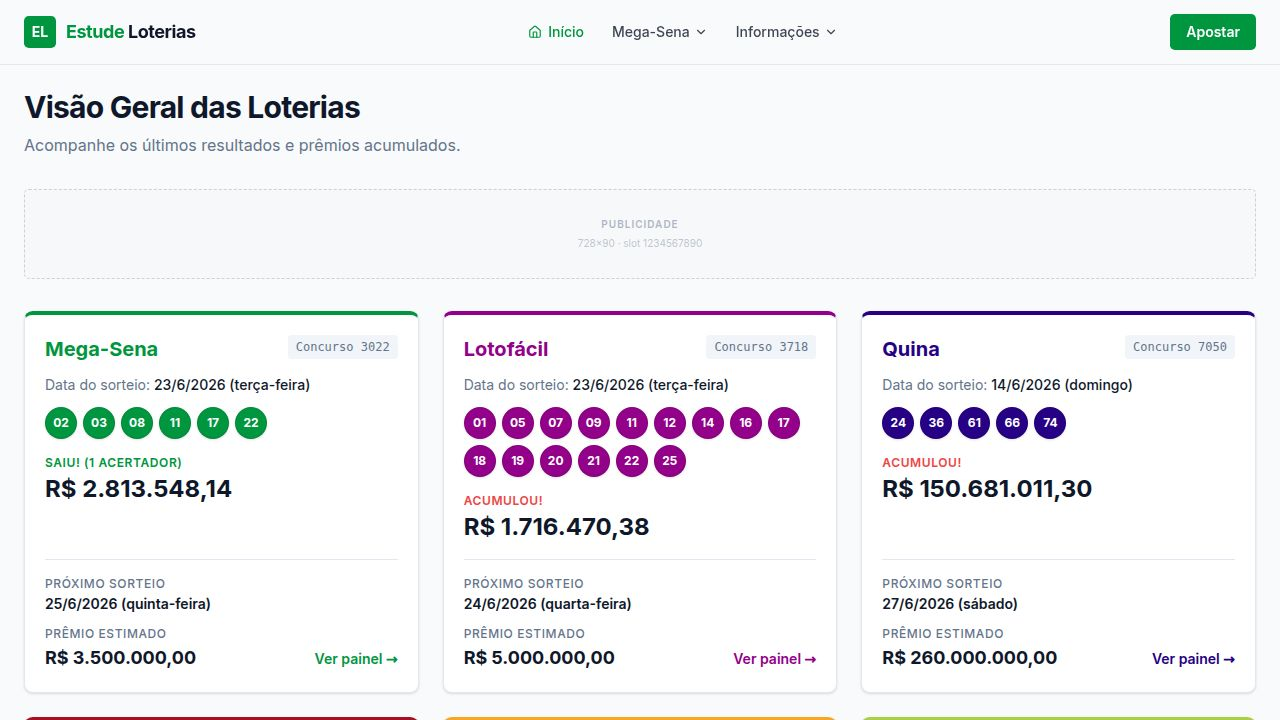
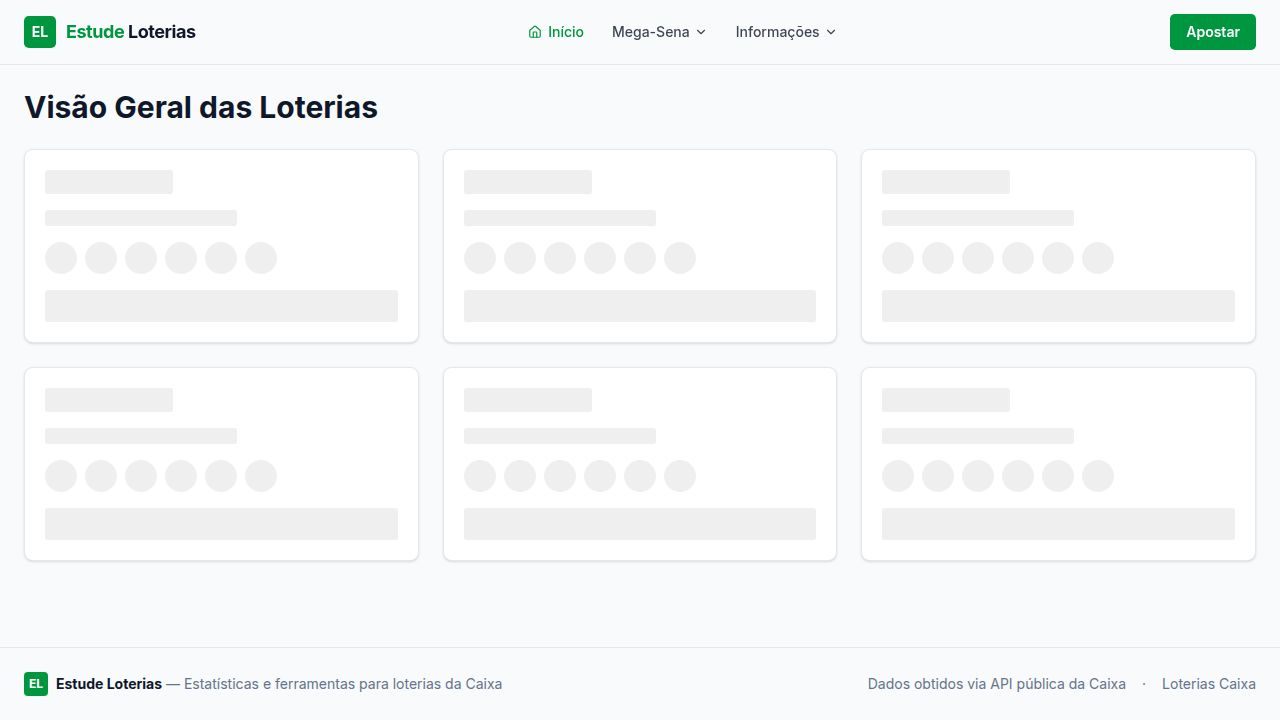
Show total main prize amount instead of per-winner prize amount
Update the results page to calculate and display the total main prize pool by multiplying the per-winner prize amount by the number of winners.

Replit-Commit-Author: Agent
Replit-Commit-Session-Id: 3f9aee6d-3915-46e7-801f-9ab8f65ebde6
Replit-Commit-Checkpoint-Type: full_checkpoint
Replit-Commit-Event-Id: afdb4cd8-641d-4330-9f33-70037f6c7eb4
Replit-Commit-Screenshot-Url: https://storage.googleapis.com/screenshot-production-us-central1/8f00ce61-9af4-4bfb-b417-0e7ddd25a51e/3f9aee6d-3915-46e7-801f-9ab8f65ebde6/rIZMCJy
Replit-Helium-Checkpoint-Created: true

diff --git a/artifacts/estude-loterias/src/pages/mega-sena/resultados.tsx b/artifacts/estude-loterias/src/pages/mega-sena/resultados.tsx
@@ -109,10 +109,12 @@ export default function MegaSenaResultadosAnteriores() {
                         )}
                       </TableCell>
                       <TableCell className="text-right font-medium">
-                        {res.acumulado
-                          ? formatCurrency(res.valorAcumulado)
-                          : formatCurrency(res.premios.find(p => p.faixa === 1)?.valorPremio)
-                        }
+                        {(() => {
+                          if (res.acumulado) return formatCurrency(res.valorAcumulado);
+                          const p1 = res.premios.find(p => p.faixa === 1);
+                          if (!p1) return "–";
+                          return formatCurrency(p1.valorPremio * p1.ganhadores);
+                        })()}
                       </TableCell>
                       <TableCell className="text-right">
                         <Link